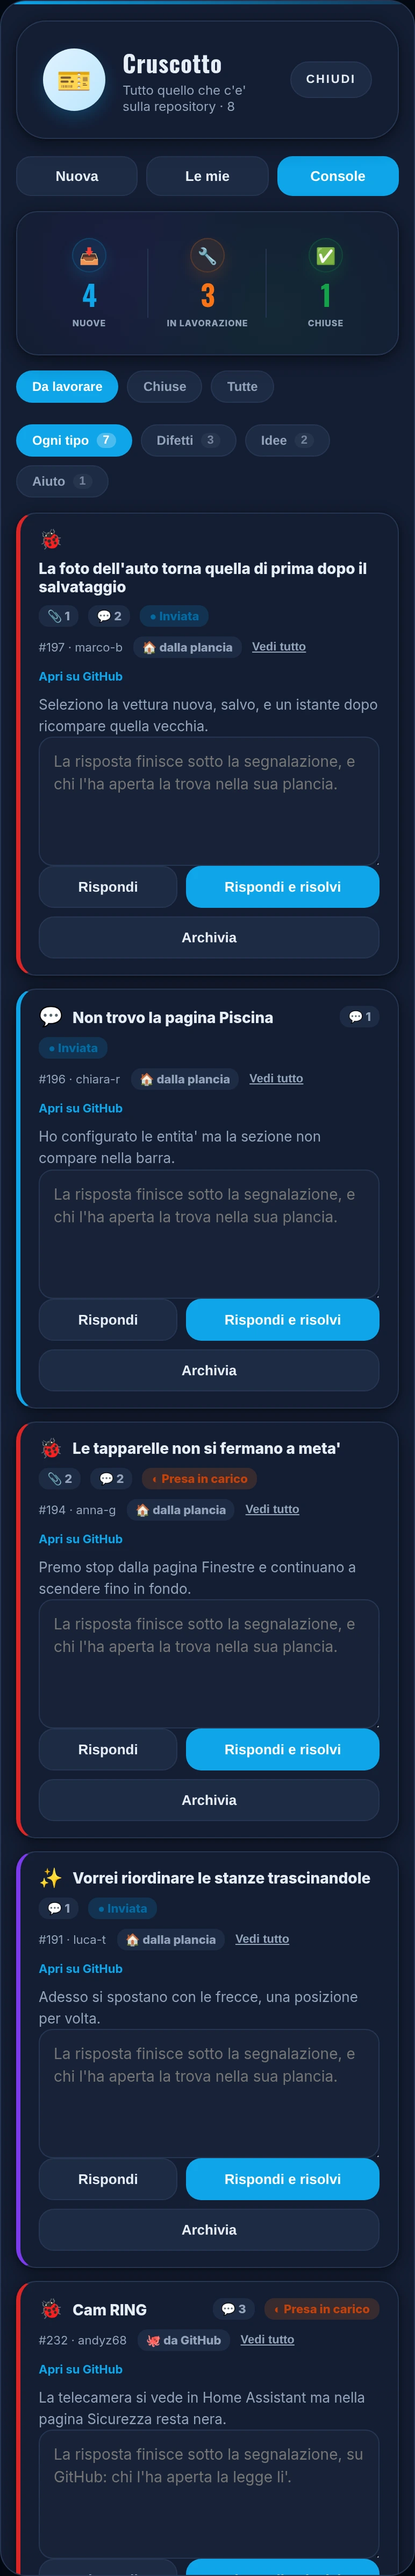
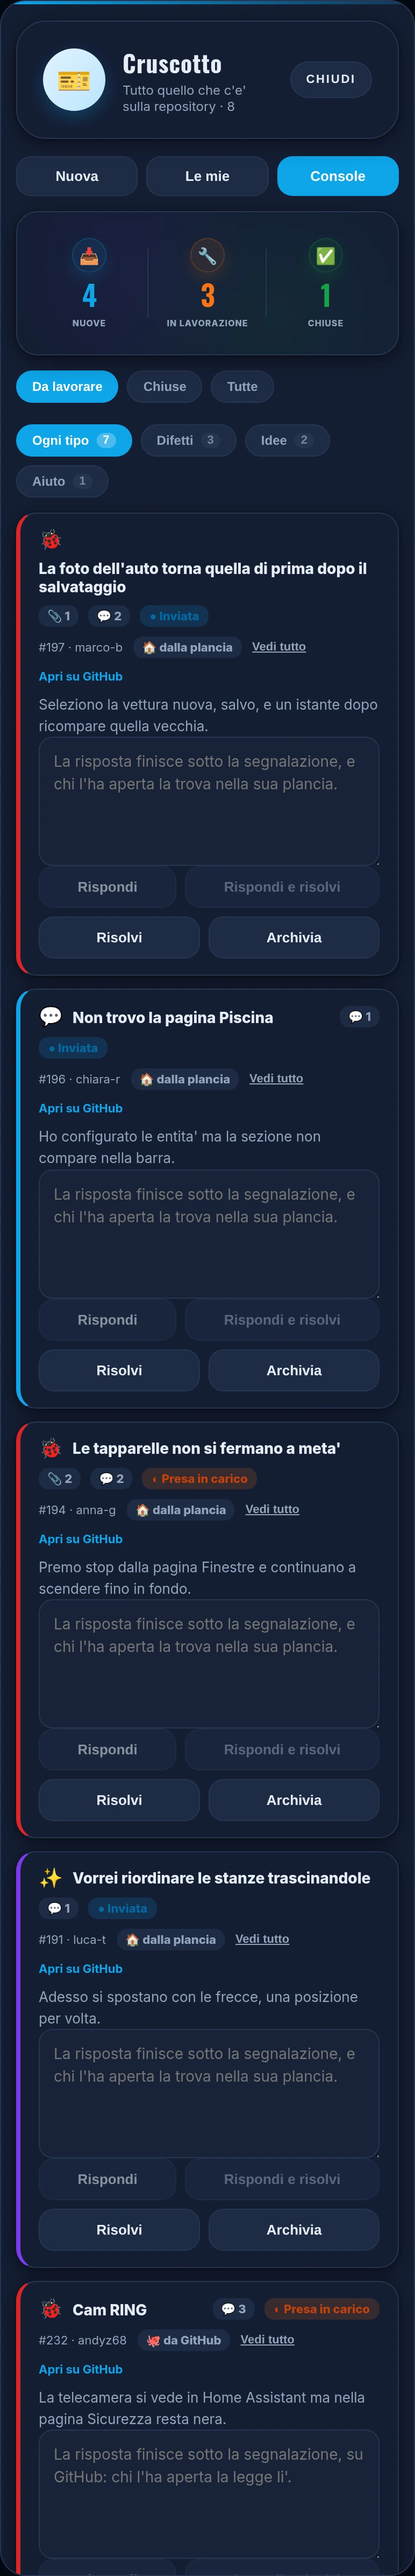
Le risposte si vedono aprendo, i tasti che scrivono aspettano il testo, e «Risolvi» chiude e basta
Tre cose viste usandola.

**Le risposte non arrivavano aprendo la finestra.** Aprirla fa `tickets/list`,
che legge quello che c'e' in casa; le risposte scritte su GitHub entrano solo
con `sync`, cioe' premendo «Aggiorna» o al giro di mezz'ora. Chi apriva le
proprie segnalazioni per vedere se c'era una risposta — l'unico motivo per cui
uno le apre — trovava quello che gia' sapeva, e doveva chiudere e riaprire la
plancia intera.

Adesso l'apertura se le va a riprendere da sola. Zitta: si salta se e' appena
stato fatto — un minuto, che aprire e richiudere tre volte non voglia dire tre
giri verso GitHub — non accende la rotella, e se la rete e' giu' non dice
niente. Chi ha solo aperto una finestra non ha chiesto niente, e un avviso
rosso in faccia all'apertura sarebbe la risposta a una domanda che nessuno ha
fatto. Il tasto «Aggiorna» resta quello ad alta voce, dove qualcuno ha chiesto
davvero.

**I tasti che scrivono nascono spenti.** Erano sempre premibili, e alla
pressione a vuoto rispondevano «Scrivi una risposta»: un rimprovero al posto di
un invito, per un errore che il tasto poteva semplicemente non lasciar
commettere. Si accendono all'`input`, toccando solo `disabled` e non il markup:
ridisegnare a ogni tasto premuto vorrebbe dire perdere il cursore e la
selezione, cioe' rompere proprio la cosa che si sta usando. Il controllo nel
gestore resta come rete, perche' una tastiera o un'altra strada non devono
poter pubblicare il vuoto.
[…]

diff --git a/custom_components/dashboardmodern/frontend/src/sections/segnalazioni-section.js b/custom_components/dashboardmodern/frontend/src/sections/segnalazioni-section.js
@@ -46,6 +46,7 @@ const state = (root[KEY] ||= {
   filtro: "aperte",
   tipoCoda: "",
   queueAt: 0,
+  syncAt: 0,
   codaTimer: 0,
   tab: "nuova",
   tipo: "bug",
@@ -509,7 +510,13 @@ const CSS = `
   font-size:13px; font-weight:800; background:var(--accent,#0ea5e9); color:#fff;
   transition:transform .18s cubic-bezier(.34,1.56,.64,1), filter .2s; }
 .dm-tkt-btn:hover { transform:translateY(-2px); filter:brightness(1.05); }
-.dm-tkt-btn[disabled] { opacity:.5; cursor:default; transform:none; }
+/* Spento vuol dire spento anche quando il tasto e' quello pieno: la sola
+   trasparenza lasciava un rettangolo azzurro su fondo scuro, che continua a
+   leggersi come «premimi». Perde il colore e prende quello neutro, cosi' la
+   differenza fra «non ancora» e «adesso si'» si vede da lontano. */
+.dm-tkt-btn[disabled] { opacity:.55; cursor:default; transform:none; filter:none;
+  background:var(--surface-3,#f1f5f9); color:var(--text-dim,#64748b);
+  border:1px solid var(--card-border,#e2e8f0); }
 .dm-tkt-btn.chiaro { background:var(--surface-3,#f1f5f9); color:var(--text,#0f172a);
   border:1px solid var(--card-border,#e2e8f0); }
 .dm-tkt-avviso { padding:11px 14px; border-radius:14px; font-size:13px;
@@ -696,6 +703,14 @@ export function apri(dove = "") {
   modale.classList.add("show");
   disegna();
   ricarica();
+  /* E si va a vedere se nel frattempo qualcuno ha risposto.
+   *
+   * `ricarica()` legge quello che c'e' in casa: le risposte scritte su GitHub
+   * non ci sono ancora, e ci arrivavano solo premendo «Aggiorna» o al giro di
+   * mezz'ora. Chi apriva le sue segnalazioni per vedere se c'era una risposta
+   * — cioe' l'unico motivo per cui uno le apre — trovava quello che gia'
+   * sapeva, e doveva chiudere e riaprire. */
+  sincronizza({ zitta: true });
 }
 
 export function chiudi() {
@@ -1334,18 +1349,31 @@ export function codaVoceMarkup(ticket) {
   const tipo = tipoInCoda(clean(ticket.type));
   const chiusa = CHIUSA.includes(clean(ticket.state));
   const aperto = Boolean(state.fili[numero] || state.filiInCorso[numero]);
+  /* I tasti che scrivono partono spenti e si accendono quando c'e' del testo.
+   * Prima erano sempre premibili e rispondevano «Scrivi una risposta»: un
+   * rimprovero al posto di un invito, per un errore che il tasto poteva
+   * semplicemente non lasciar commettere.
+   *
+   * Quelli che chiudono e basta restano accesi: chiudere senza scrivere e' un
+   * gesto legittimo — «non e' un difetto», «era gia' risolta» — e pretendere un
+   * commento per farlo vorrebbe dire chiedere di scrivere per forza. */
+  const scrive = ` data-dm-serve-testo="${numero}" disabled`;
   const azioni = chiusa
     ? `<button type="button" class="dm-tkt-btn chiaro"
-         data-dm-rispondi="${numero}" data-dm-chiudi="">${esc(
+         data-dm-rispondi="${numero}" data-dm-chiudi=""${scrive}>${esc(
            t("Aggiungi una risposta", "Add a reply"),
          )}</button>`
     : `
       <button type="button" class="dm-tkt-btn chiaro"
-        data-dm-rispondi="${numero}" data-dm-chiudi="">${esc(t("Rispondi", "Reply"))}</button>
+        data-dm-rispondi="${numero}" data-dm-chiudi=""${scrive}>${esc(
+          t("Rispondi", "Reply"),
+        )}</button>
       <button type="button" class="dm-tkt-btn"
-        data-dm-rispondi="${numero}" data-dm-chiudi="risolto">${esc(
+        data-dm-rispondi="${numero}" data-dm-chiudi="risolto"${scrive}>${esc(
           t("Rispondi e risolvi", "Reply and solve"),
         )}</button>
+      <button type="button" class="dm-tkt-btn chiaro"
+        data-dm-rispondi="${numero}" data-dm-chiudi="risolto">${esc(t("Risolvi", "Solve"))}</button>
       <button type="button" class="dm-tkt-btn chiaro"
         data-dm-rispondi="${numero}" data-dm-chiudi="chiuso">${esc(
           t("Archivia", "Archive"),
@@ -1512,6 +1540,20 @@ function agganciaEventi(corpo) {
       disegna();
     });
   });
+  /* Si accendono mentre si scrive, e non a un ridisegno: rifare il markup a
+   * ogni tasto premuto vorrebbe dire perdere il punto del cursore e la
+   * selezione, cioe' rompere proprio la cosa che si sta usando. Qui si tocca
+   * solo `disabled`, che il testo non lo sfiora. */
+  corpo.querySelectorAll("[data-dm-serve-testo]").forEach((bottone) => {
+    const numero = bottone.dataset.dmServeTesto;
+    const campo = corpo.querySelector(`#dm-tkt-risposta-${numero}`);
+    if (!campo) return;
+    const aggiorna = () => {
+      bottone.disabled = !clean(campo.value);
+    };
+    campo.addEventListener("input", aggiorna);
+    aggiorna();
+  });
   corpo.querySelectorAll("[data-dm-tipo-coda]").forEach((bottone) => {
     bottone.addEventListener("click", () => {
       state.tipoCoda = bottone.dataset.dmTipoCoda;
@@ -1519,7 +1561,11 @@ function agganciaEventi(corpo) {
     });
   });
   corpo.querySelector('[data-dm-tkt="invia"]')?.addEventListener("click", invia);
-  corpo.querySelector('[data-dm-tkt="aggiorna"]')?.addEventListener("click", sincronizza);
+  /* Senza la lambda l'ascoltatore passerebbe l'Event come opzioni: oggi
+   * funzionerebbe per caso — un Event non ha `zitta`, quindi vale il difetto —
+   * ma e' un caso, e il giorno che l'opzione cambia nome smette di essere
+   * fortunato senza che niente lo dica. */
+  corpo.querySelector('[data-dm-tkt="aggiorna"]')?.addEventListener("click", () => sincronizza());
   corpo.querySelectorAll("[data-dm-tolgi]").forEach((bottone) => {
     bottone.addEventListener("click", () => elimina(bottone.dataset.dmTolgi));
   });
@@ -1613,15 +1659,31 @@ async function invia() {
   }
 }
 
-async function sincronizza() {
-  state.busy = true;
-  disegna();
+/* Ogni quanto le risposte si vanno a riprendere da sole all'apertura. Un
+ * minuto: aprire e richiudere la finestra tre volte di fila non deve voler dire
+ * tre giri completi verso GitHub, e in un minuto non e' cambiato niente. */
+const RISPOSTE_FRESCHE = 60 * 1000;
+
+async function sincronizza({ zitta = false } = {}) {
+  /* Zitta e' il giro che la finestra fa da sola quando si apre: si salta se e'
+   * appena stato fatto, non accende la rotella e se la rete e' giu' non dice
+   * niente — chi ha solo aperto una finestra non ha chiesto niente, e un avviso
+   * rosso in faccia all'apertura sarebbe una risposta a una domanda che nessuno
+   * ha fatto. Ad alta voce e' il tasto «Aggiorna», dove qualcuno ha chiesto. */
+  if (zitta && Date.now() - state.syncAt < RISPOSTE_FRESCHE) return;
+  if (!zitta) {
+    state.busy = true;
+    disegna();
+  }
   try {
     const risposta = await chiedi(WS_SYNC);
     state.tickets = Array.isArray(risposta?.tickets) ? risposta.tickets : state.tickets;
     state.delivery = Boolean(risposta?.delivery);
+    state.syncAt = Date.now();
   } catch (errore) {
-    state.avviso = `!${clean(errore?.message) || t("Non riuscita.", "It did not work.")}`;
+    if (!zitta) {
+      state.avviso = `!${clean(errore?.message) || t("Non riuscita.", "It did not work.")}`;
+    }
   } finally {
     state.busy = false;
     installaTessera();
@@ -1693,14 +1755,12 @@ async function rispondi(numero, chiusura) {
   if (!issue) return;
   const modale = doc?.getElementById?.("dm-tkt-modal");
   const testo = clean(modale?.querySelector(`#dm-tkt-risposta-${issue}`)?.value);
-  /* Archiviare senza scrivere niente ha senso — «non e' un difetto» — ma
-   * rispondere senza testo no: sarebbe un commento vuoto sotto la
-   * segnalazione di qualcuno. */
-  if (!testo && !chiusura) {
-    state.avviso = `!${t("Scrivi una risposta.", "Write a reply.")}`;
-    disegna();
-    return;
-  }
+  /* Chiudere senza scrivere ha senso — «non e' un difetto», «era gia'
+   * risolta». Rispondere senza testo no: sarebbe un commento vuoto sotto la
+   * segnalazione di qualcuno. I tasti che scrivono nascono spenti apposta, e
+   * questa riga resta come rete: un tasto premuto da tastiera o da un'altra
+   * strada non deve poter pubblicare il vuoto. */
+  if (!testo && !chiusura) return;
   state.busy = true;
   disegna();
   try {

diff --git a/custom_components/dashboardmodern/frontend/tests/segnalazioni-section.test.js b/custom_components/dashboardmodern/frontend/tests/segnalazioni-section.test.js
@@ -753,3 +753,44 @@ test("i generi di oggi tornano il conto di oggi, senza perderne per strada", () 
     },
   );
 });
+
+test("i tasti che scrivono nascono spenti, quelli che chiudono no", () => {
+  /* Prima erano tutti premibili e la risposta al vuoto era «Scrivi una
+   * risposta»: un rimprovero al posto di un invito, per un errore che il tasto
+   * poteva semplicemente non lasciar commettere.
+   *
+   * Chiudere senza scrivere invece e' un gesto legittimo — «non e' un
+   * difetto», «era gia' risolta» — e pretendere un commento per farlo vorrebbe
+   * dire chiedere di scrivere per forza. */
+  const voce = codaVoceMarkup(inCoda({ number: 7, state: "inviato" }));
+  const tasti = [...voce.matchAll(/<button[^>]*data-dm-rispondi="7"[^>]*>/g)].map((m) => m[0]);
+  assert.equal(tasti.length, 4, "i tasti della riga non sono piu' quattro");
+
+  const spenti = tasti.filter((tasto) => tasto.includes("disabled"));
+  assert.equal(spenti.length, 2, "i tasti spenti in partenza non sono due");
+  for (const tasto of spenti) {
+    assert.ok(
+      tasto.includes("data-dm-serve-testo"),
+      "un tasto nasce spento senza dire che aspetta del testo",
+    );
+  }
+
+  /* E i due che restano accesi chiudono davvero: uno risolve, l'altro
+   * archivia. Un tasto acceso che non chiude niente sarebbe un tasto che
+   * pubblica il vuoto. */
+  const accesi = tasti.filter((tasto) => !tasto.includes("disabled"));
+  assert.deepEqual(accesi.map((tasto) => tasto.match(/data-dm-chiudi="([^"]*)"/)[1]).sort(), [
+    "chiuso",
+    "risolto",
+  ]);
+});
+
+test("su una gia' chiusa il solo tasto che c'e' aspetta del testo", () => {
+  /* Li' l'unico gesto e' aggiungere una risposta, e una risposta vuota non e'
+   * una risposta. */
+  const voce = codaVoceMarkup(inCoda({ number: 9, state: "risolto" }));
+  const tasti = [...voce.matchAll(/<button[^>]*data-dm-rispondi="9"[^>]*>/g)].map((m) => m[0]);
+  assert.equal(tasti.length, 1);
+  assert.ok(tasti[0].includes("disabled"));
+  assert.ok(tasti[0].includes("data-dm-serve-testo"));
+});

diff --git a/custom_components/dashboardmodern/frontend/src/i18n/hi.js b/custom_components/dashboardmodern/frontend/src/i18n/hi.js
@@ -16,6 +16,7 @@ export default Object.freeze({
   "Came from a dashboard: the reply goes back into it": "एक डैशबोर्ड से आई: जवाब उसी में वापस जाता है",
   "Everything on the repository": "रिपॉज़िटरी में जो कुछ भी है",
   "Nothing came in today.": "आज कुछ नहीं आया।",
+  "Solve": "हल करें",
   "Until you pick the entity this opening is nowhere to be seen: not in the section, not on the tile, and the “in the widget” switch does not appear.": "जब तक आप इकाई नहीं चुनते, यह द्वार कहीं नहीं दिखेगा: न अनुभाग में, न टाइल पर, और «विजेट में» वाला स्विच भी नहीं आएगा।",
   "from a dashboard": "डैशबोर्ड से",
   "from GitHub": "GitHub से",
@@ -2218,7 +2219,6 @@ export default Object.freeze({
   "Wool": "ऊन",
   "Worker": "मज़दूर",
   "working": "काम पर",
-  "Write a reply.": "उत्तर लिखें।",
   "Wrong PIN, try again.": "गलत PIN, फिर से कोशिश करें।",
   "WSW": "प-द-प",
   "Year": "साल",

diff --git a/custom_components/dashboardmodern/frontend/src/i18n/ru.js b/custom_components/dashboardmodern/frontend/src/i18n/ru.js
@@ -16,6 +16,7 @@ export default Object.freeze({
   "Came from a dashboard: the reply goes back into it": "Пришло с панели: ответ вернётся туда же",
   "Everything on the repository": "Всё, что есть в репозитории",
   "Nothing came in today.": "Сегодня ничего не пришло.",
+  "Solve": "Решено",
   "Until you pick the entity this opening is nowhere to be seen: not in the section, not on the tile, and the “in the widget” switch does not appear.": "Пока вы не выбрали сущность, этот проём нигде не виден: ни в разделе, ни на плитке, и переключатель «в виджете» не появляется.",
   "from a dashboard": "с панели",
   "from GitHub": "с GitHub",
@@ -2218,7 +2219,6 @@ export default Object.freeze({
   "Wool": "Шерсть",
   "Worker": "Рабочий",
   "working": "за работой",
-  "Write a reply.": "Напишите ответ.",
   "Wrong PIN, try again.": "Неверный PIN-код, попробуйте ещё раз.",
   "WSW": "ЗЮЗ",
   "Year": "Год",

diff --git a/custom_components/dashboardmodern/frontend/src/i18n/ja.js b/custom_components/dashboardmodern/frontend/src/i18n/ja.js
@@ -16,6 +16,7 @@ export default Object.freeze({
   "Came from a dashboard: the reply goes back into it": "ダッシュボードから届いたもの: 返信はそこに戻ります",
   "Everything on the repository": "リポジトリにあるものすべて",
   "Nothing came in today.": "今日は何も届いていません。",
+  "Solve": "解決にする",
   "Until you pick the entity this opening is nowhere to be seen: not in the section, not on the tile, and the “in the widget” switch does not appear.": "エンティティを選ぶまで、この開口部はどこにも表示されません。セクションにもタイルにも出ず、「ウィジェットに表示」のスイッチも現れません。",
   "from a dashboard": "ダッシュボードから",
   "from GitHub": "GitHub から",
@@ -2218,7 +2219,6 @@ export default Object.freeze({
   "Wool": "ウール",
   "Worker": "作業員",
   "working": "稼働中",
-  "Write a reply.": "返信を書いてください。",
   "Wrong PIN, try again.": "PINが違います。もう一度お試しください。",
   "WSW": "西南西",
   "Year": "年",

diff --git a/custom_components/dashboardmodern/frontend/src/i18n/ar.js b/custom_components/dashboardmodern/frontend/src/i18n/ar.js
@@ -16,6 +16,7 @@ export default Object.freeze({
   "Came from a dashboard: the reply goes back into it": "وردت من لوحة تحكم: يعود الرد إليها",
   "Everything on the repository": "كل ما في المستودع",
   "Nothing came in today.": "لم يصل شيء اليوم.",
+  "Solve": "حُلَّت",
   "Until you pick the entity this opening is nowhere to be seen: not in the section, not on the tile, and the “in the widget” switch does not appear.": "ما دمت لم تختر الكيان فلن يظهر هذا المنفذ في أي مكان: لا في القسم ولا في البطاقة، ولن يظهر مفتاح «في الأداة».",
   "from a dashboard": "من لوحة تحكم",
   "from GitHub": "من GitHub",
@@ -2218,7 +2219,6 @@ export default Object.freeze({
   "Wool": "صوف",
   "Worker": "عامل",
   "working": "يعمل",
-  "Write a reply.": "اكتب ردًا.",
   "Wrong PIN, try again.": "رمز PIN خاطئ، حاول مجددًا.",
   "WSW": "غرب جنوب غرب",
   "Year": "السنة",

diff --git a/custom_components/dashboardmodern/frontend/src/i18n/ko.js b/custom_components/dashboardmodern/frontend/src/i18n/ko.js
@@ -16,6 +16,7 @@ export default Object.freeze({
   "Came from a dashboard: the reply goes back into it": "대시보드에서 온 것: 답변이 그곳으로 돌아갑니다",
   "Everything on the repository": "저장소에 있는 모든 것",
   "Nothing came in today.": "오늘은 아무것도 오지 않았습니다.",
+  "Solve": "해결",
   "Until you pick the entity this opening is nowhere to be seen: not in the section, not on the tile, and the “in the widget” switch does not appear.": "엔터티를 고르기 전에는 이 출입구가 어디에도 보이지 않습니다. 섹션에도 타일에도 나오지 않고, '위젯에 표시' 스위치도 나타나지 않습니다.",
   "from a dashboard": "대시보드에서",
   "from GitHub": "GitHub에서",
@@ -2218,7 +2219,6 @@ export default Object.freeze({
   "Wool": "울",
   "Worker": "작업자",
   "working": "작업 중",
-  "Write a reply.": "답변을 작성하세요.",
   "Wrong PIN, try again.": "PIN이 틀렸습니다. 다시 시도하세요.",
   "WSW": "서남서",
   "Year": "연",

diff --git a/custom_components/dashboardmodern/frontend/src/i18n/fr.js b/custom_components/dashboardmodern/frontend/src/i18n/fr.js
@@ -16,6 +16,7 @@ export default Object.freeze({
   "Came from a dashboard: the reply goes back into it": "Arrivé depuis un tableau de bord : la réponse y retourne",
   "Everything on the repository": "Tout ce qui est sur le dépôt",
   "Nothing came in today.": "Rien n'est arrivé aujourd'hui.",
+  "Solve": "Résoudre",
   "Until you pick the entity this opening is nowhere to be seen: not in the section, not on the tile, and the “in the widget” switch does not appear.": "Tant que tu ne choisis pas l'entité, cette ouverture ne se voit nulle part : ni dans la section, ni sur la tuile, et l'interrupteur « dans le widget » n'apparaît pas.",
   "from a dashboard": "depuis un tableau de bord",
   "from GitHub": "depuis GitHub",
@@ -2218,7 +2219,6 @@ export default Object.freeze({
   "Wool": "Laine",
   "Worker": "Ouvrier",
   "working": "au travail",
-  "Write a reply.": "Écris une réponse.",
   "Wrong PIN, try again.": "PIN incorrect, réessayez.",
   "WSW": "OSO",
   "Year": "Année",

diff --git a/custom_components/dashboardmodern/frontend/src/i18n/de.js b/custom_components/dashboardmodern/frontend/src/i18n/de.js
@@ -16,6 +16,7 @@ export default Object.freeze({
   "Came from a dashboard: the reply goes back into it": "Aus einem Dashboard gekommen: die Antwort geht dorthin zurück",
   "Everything on the repository": "Alles im Repository",
   "Nothing came in today.": "Heute ist nichts eingegangen.",
+  "Solve": "Gelöst",
   "Until you pick the entity this opening is nowhere to be seen: not in the section, not on the tile, and the “in the widget” switch does not appear.": "Solange du keine Entität wählst, ist diese Öffnung nirgends zu sehen: weder im Bereich noch auf der Kachel, und der Schalter „im Widget“ erscheint nicht.",
   "from a dashboard": "aus einem Dashboard",
   "from GitHub": "von GitHub",
@@ -2218,7 +2219,6 @@ export default Object.freeze({
   "Wool": "Wolle",
   "Worker": "Arbeiter",
   "working": "bei der Arbeit",
-  "Write a reply.": "Schreibe eine Antwort.",
   "Wrong PIN, try again.": "Falsche PIN, versuch es erneut.",
   "WSW": "WSW",
   "Year": "Jahr",

diff --git a/custom_components/dashboardmodern/frontend/src/i18n/nl.js b/custom_components/dashboardmodern/frontend/src/i18n/nl.js
@@ -16,6 +16,7 @@ export default Object.freeze({
   "Came from a dashboard: the reply goes back into it": "Gekomen vanaf een dashboard: het antwoord gaat daarheen terug",
   "Everything on the repository": "Alles in de repository",
   "Nothing came in today.": "Vandaag is er niets binnengekomen.",
+  "Solve": "Oplossen",
   "Until you pick the entity this opening is nowhere to be seen: not in the section, not on the tile, and the “in the widget” switch does not appear.": "Zolang je geen entiteit kiest is deze opening nergens te zien: niet in de sectie, niet op de tegel, en de schakelaar 'in de widget' verschijnt niet.",
   "from a dashboard": "vanaf een dashboard",
   "from GitHub": "vanaf GitHub",
@@ -2218,7 +2219,6 @@ export default Object.freeze({
   "Wool": "Wol",
   "Worker": "Arbeider",
   "working": "aan het werk",
-  "Write a reply.": "Schrijf een antwoord.",
   "Wrong PIN, try again.": "Verkeerde pincode, probeer opnieuw.",
   "WSW": "WZW",
   "Year": "Jaar",

diff --git a/custom_components/dashboardmodern/frontend/src/i18n/es.js b/custom_components/dashboardmodern/frontend/src/i18n/es.js
@@ -16,6 +16,7 @@ export default Object.freeze({
   "Came from a dashboard: the reply goes back into it": "Llegó desde un panel: la respuesta vuelve allí",
   "Everything on the repository": "Todo lo que hay en el repositorio",
   "Nothing came in today.": "Hoy no ha llegado nada.",
+  "Solve": "Resolver",
   "Until you pick the entity this opening is nowhere to be seen: not in the section, not on the tile, and the “in the widget” switch does not appear.": "Hasta que no elijas la entidad esta apertura no se ve en ninguna parte: ni en la sección, ni en la tarjeta, y el interruptor «en el widget» no aparece.",
   "from a dashboard": "desde un panel",
   "from GitHub": "desde GitHub",
@@ -2218,7 +2219,6 @@ export default Object.freeze({
   "Wool": "Lana",
   "Worker": "Obrero",
   "working": "trabajando",
-  "Write a reply.": "Escribe una respuesta.",
   "Wrong PIN, try again.": "PIN incorrecto, inténtalo de nuevo.",
   "WSW": "OSO",
   "Year": "Año",

diff --git a/custom_components/dashboardmodern/frontend/src/i18n/zh-Hans.js b/custom_components/dashboardmodern/frontend/src/i18n/zh-Hans.js
@@ -16,6 +16,7 @@ export default Object.freeze({
   "Came from a dashboard: the reply goes back into it": "来自某个面板：回复会回到那里",
   "Everything on the repository": "仓库里的全部内容",
   "Nothing came in today.": "今天没有新来的。",
+  "Solve": "标为已解决",
   "Until you pick the entity this opening is nowhere to be seen: not in the section, not on the tile, and the “in the widget” switch does not appear.": "在选择实体之前，这个出入口哪里都看不到：版块里没有，磁贴上也没有，“显示在小组件”的开关也不会出现。",
   "from a dashboard": "来自面板",
   "from GitHub": "来自 GitHub",
@@ -2218,7 +2219,6 @@ export default Object.freeze({
   "Wool": "羊毛",
   "Worker": "工人",
   "working": "工作中",
-  "Write a reply.": "请写一条回复。",
   "Wrong PIN, try again.": "PIN 错误，请重试。",
   "WSW": "西南偏西",
   "Year": "年",
